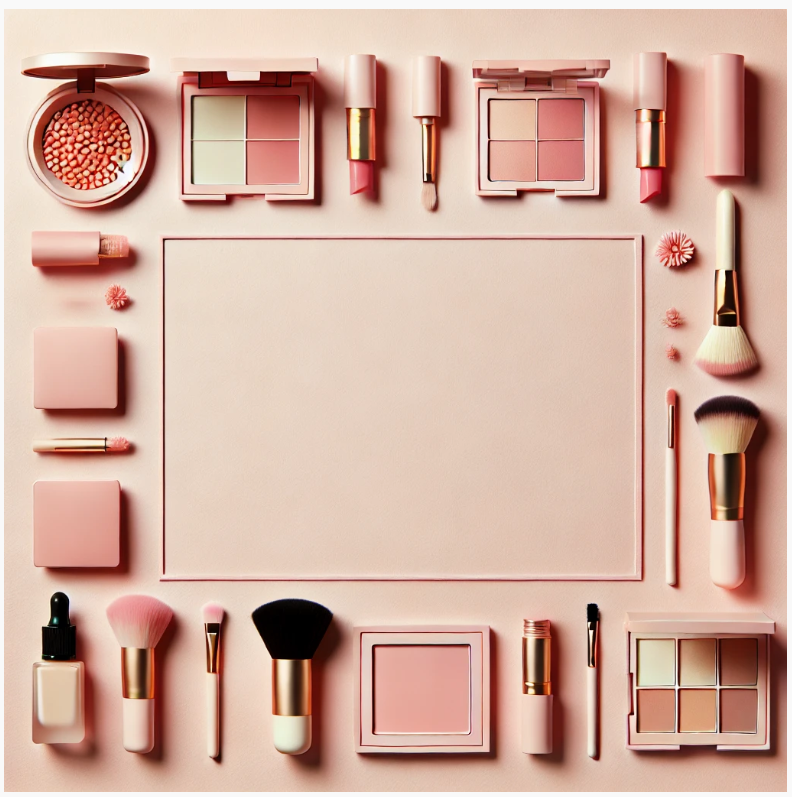
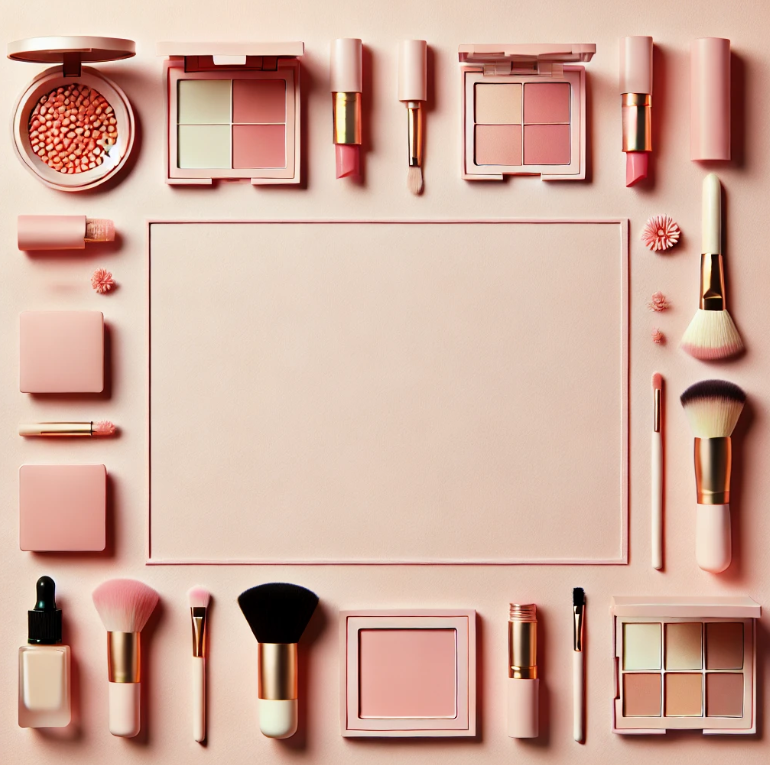
css for makeup

diff --git a/frontend/src/pages/MakeupSelector.jsx b/frontend/src/pages/MakeupSelector.jsx
@@ -141,11 +141,15 @@ const MakeupSelector = () => {
   // };
 
   return (
-    <div className="flex justify-center items-start pt-20 min-h-screen bg-customBg">
-      <div className="max-w-5xl w-3/5 p-8 bg-customBg1 shadow-lg rounded-lg space-y-5">
-        <h1 className="text-2xl font-bold m-10">Makeup Features</h1>
+      <div className="relative min-h-screen bg-cover bg-center p-20 bg-[url('https://i.postimg.cc/TwNqd9Bm/makeup2.jpg')]">
+        {/* Overlay for controlling opacity */}
+        <div className="absolute inset-0 bg-white/50"></div>
+        <div className="relative mx-auto w-full max-w-[calc(60%-250px)] bg-opacity-80 shadow-md rounded-lg p-5 space-y-4">
+              {/* <div className="flex justify-center items-start pt-20 min-h-screen bg-customBg">*/}
+      {/*<div className="max-w-5xl w-3/5 p-8 bg-customBg1 shadow-lg rounded-lg space-y-5">*/}
+        <h1 className="text-2xl font-bold text-BgFont m-10">select services that you need:</h1>
         <DescriptionBox description={currentDescription} />
-        <form className="space-y-4">
+        <form className="space-y-4 font-bold">
           {features.map((feature) => (
             <div key={feature.id} className="flex items-center justify-between">
               <div
@@ -160,18 +164,18 @@ const MakeupSelector = () => {
                   onChange={() => handleCheckboxChange(feature.id)}
                   className="mr-2"
                 />
-                <label htmlFor={feature.id} className="text-lg">
+                <label htmlFor={feature.id} className="text-lg font-bold">
                   {feature.label} (${feature.price})
                 </label>
               </div>
             </div>
           ))}
         </form>
-        <div className="text-right mt-4 font-bold">Total: ${total}</div>
+        <div className="text-center text-xl text-BgFont mt-4 font-bold">Total: ${total}</div>
         <button
           type="button"
           onClick={handleSubmit}
-          className="w-full bg-blue-500 text-white py-2 px-4 rounded hover:bg-blue-600"
+          className="w-full bg-BgPinkMiddle text-BgFont py-2 px-4 rounded hover:bg-BgPinkDark"
           disabled={loading}
         >
           {loading ? "Processing..." : isEditMode ? "Update" : "Submit"}
